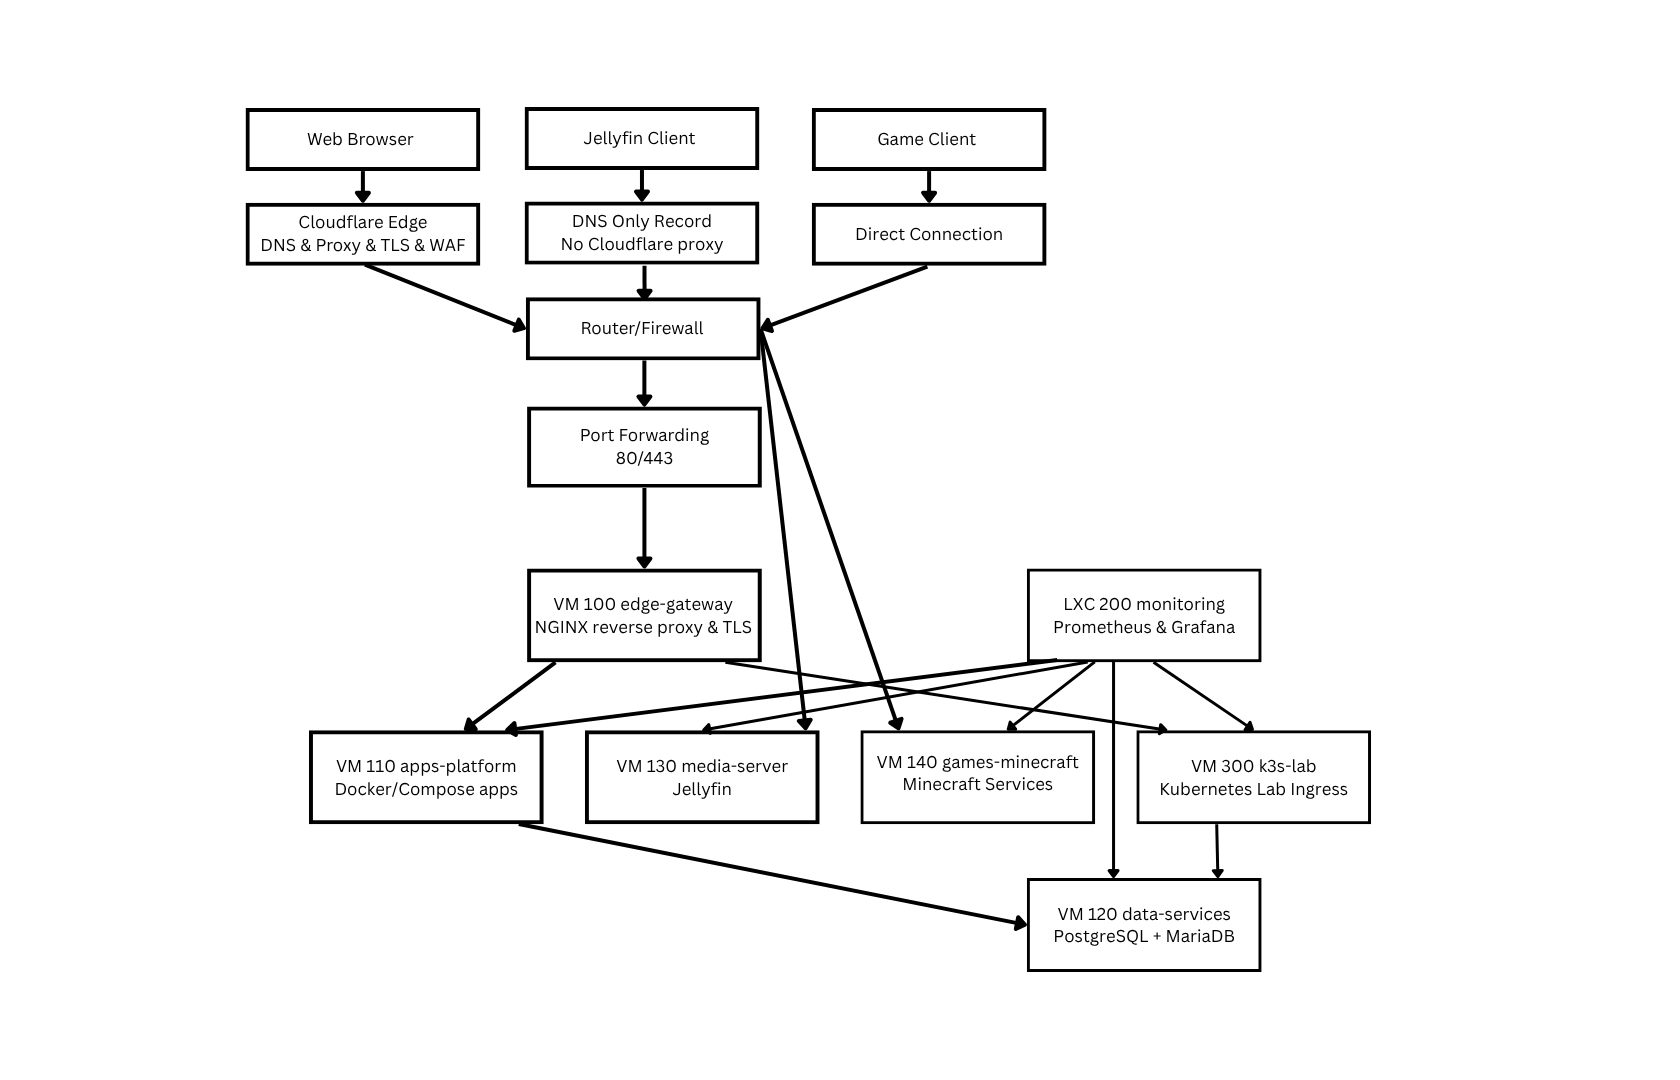
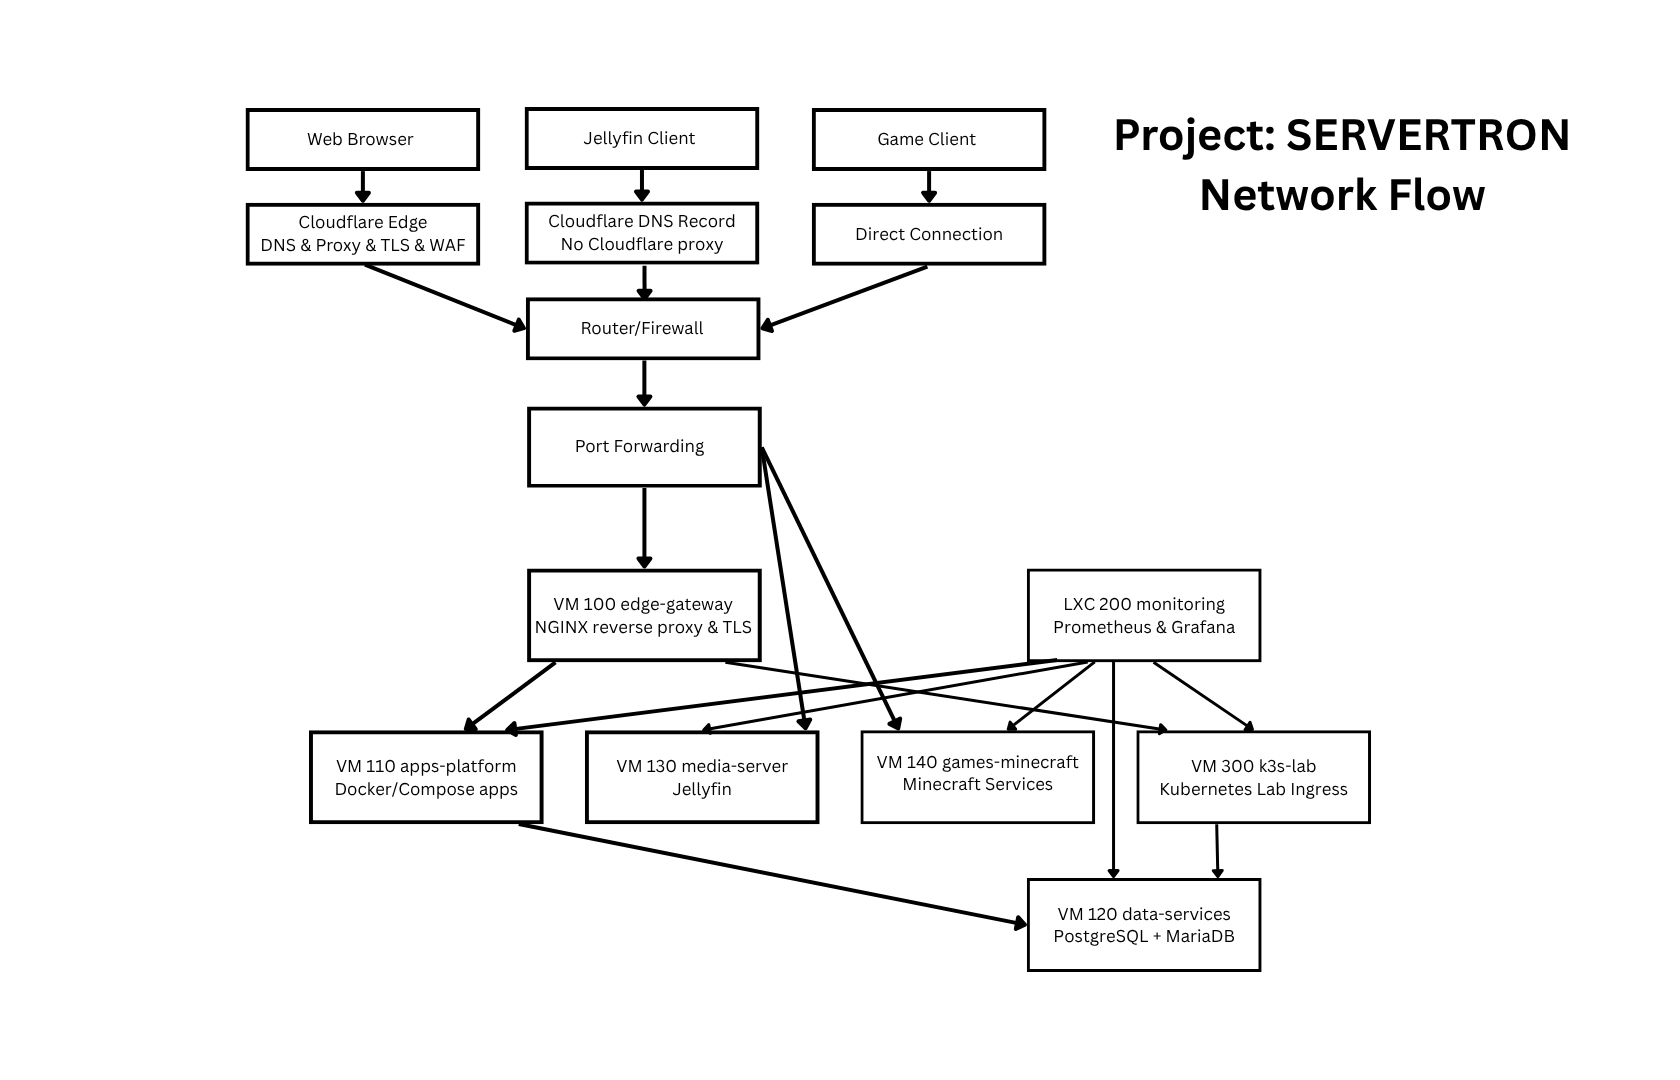
Small edits, add architectural diagram

diff --git a/docs/decisions.md b/docs/decisions.md
@@ -418,7 +418,11 @@ Cloudflare will be used as a proxy for VM 100 edge-gateway, and for SSL, a web a
 
 ### Context
 
+Databases are required for a persistent data layer in the SERVERTRON system. Compatibility with WordPress is also required.    
+
 ### Decision
+
+PostgreSQL will be used as a primary database. MariaDB will be used a secondary database for WordPress compatibility.  
 
 ### Rationale
 
@@ -428,5 +432,10 @@ MariaDB will be as a secondary database for WordPress compatibility.
 
 ### Alternatives Considered
 
+- PostgreSQL
+- MariaDB
+- MySQL
+
 ### Consequences
 
+- 

diff --git a/phases/01-plan/initial-architecture-notes.md b/phases/01-plan/initial-architecture-notes.md
@@ -2,6 +2,9 @@
 
 Initial notes on architecture during the planning phase of the first iteration of Project: SERVERTRON.  
 
+![Project: SERVERTRON Architecture Diagram](./images/servertron-architecture.png)
+*Project: SERVERTRON Architecture Diagram*
+
 ## Internet/Users
 
 The Internet and users of the web server, media server, game server, and other Internet-facing apps.  
@@ -38,7 +41,7 @@ The production lane hosts stable, persisent services intended for operational us
 **RAM:** 2 GB  
 **Storage:** 32 GB  
 
-This separates the VM 110 and VM 300 from outside traffic so that incoming traffic can be handled at the source.  
+This separates VM 110 and VM 300 from outside traffic so that incoming traffic can be handled at the source.  
 
 - Reverse proxy
 - TLS termination